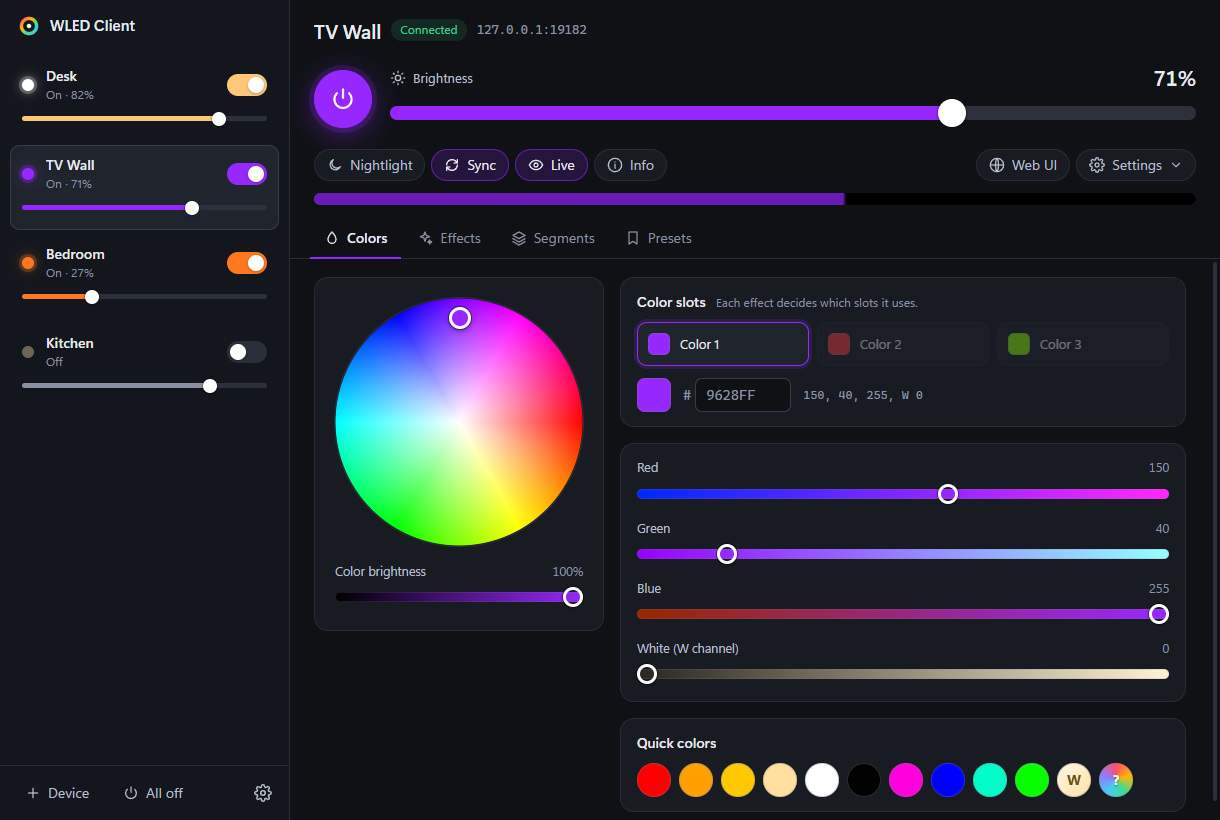
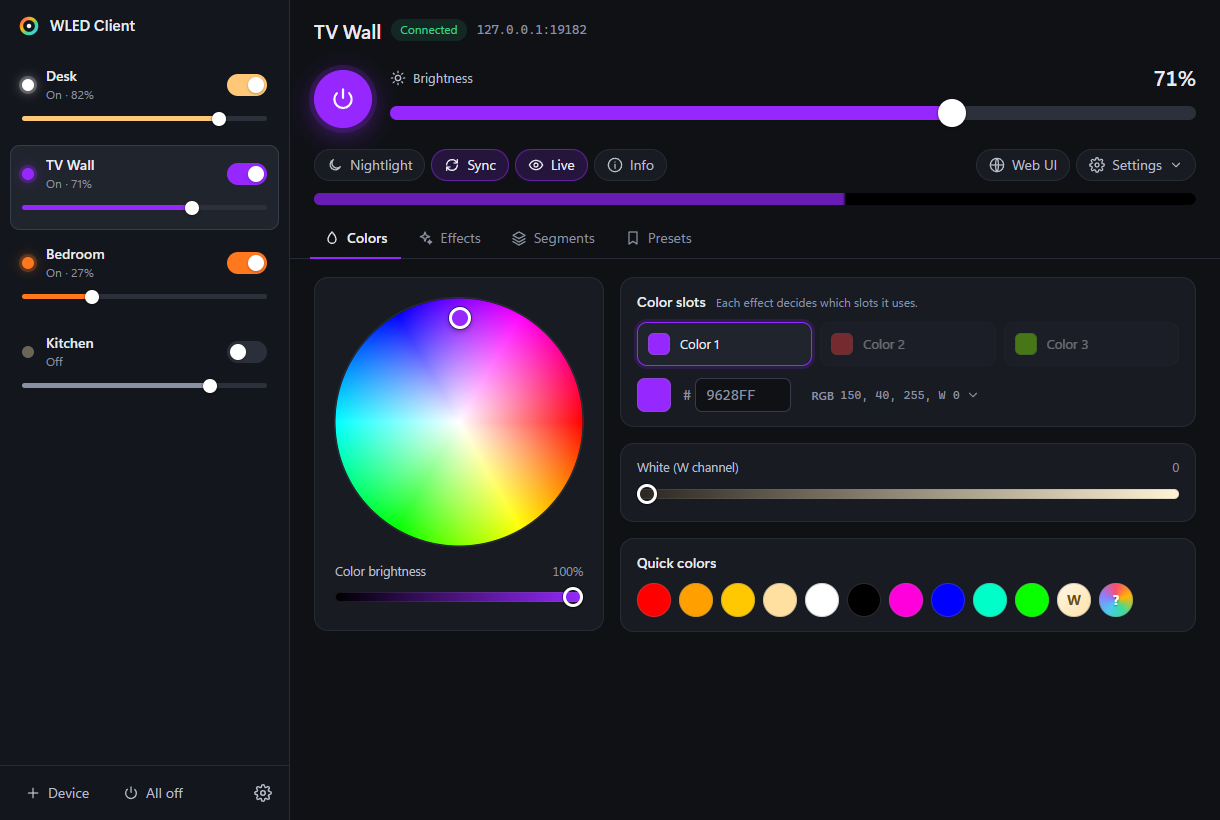
Colors tab: RGB sliders on demand
The red, green and blue sliders are folded away by default; the RGB
readout next to the hex field opens them and the choice is remembered.
White channel and color temperature stay visible where the device has
them, and the panel disappears when there is nothing left to show.

diff --git a/src/renderer/components/tabs/ColorsTab.tsx b/src/renderer/components/tabs/ColorsTab.tsx
@@ -1,7 +1,7 @@
 import { useEffect, useState } from 'react';
 import { key, t } from '../../../shared/i18n';
 import type { Color, DeviceSnapshot, DeviceStatic, WledState } from '../../../shared/types';
-import { send } from '../../lib/store';
+import { readLocal, send, writeLocal } from '../../lib/store';
 import {
   colPatch,
   displayColor,
@@ -16,6 +16,7 @@ import {
   viewSeg,
 } from '../../lib/wled';
 import { ColorWheel } from '../ColorWheel';
+import { Icon } from '../Icon';
 import { Slider } from '../controls';
 
 const QUICK: Array<{ c: Color; label: string }> = [
@@ -48,6 +49,10 @@ export function ColorsTab({ device, state, st }: { device: DeviceSnapshot; state
 
   const [hex, setHex] = useState(toHex(rgb));
   useEffect(() => setHex(toHex(rgb)), [rgb[0], rgb[1], rgb[2]]);
+
+  // Die RGB-Regler braucht kaum jemand ständig: zugeklappt, bis man sie holt, und so gemerkt
+  const [rgbOpen, setRgbOpen] = useState(() => readLocal<boolean>('wled.rgbOpen', false));
+  useEffect(() => writeLocal('wled.rgbOpen', rgbOpen), [rgbOpen]);
 
   const sendColor = (c: Color) =>
     send(device.id, segPatch(state, { col: colPatch(activeSlot, c) }), `col${activeSlot}`);
@@ -129,51 +134,63 @@ export function ColorsTab({ device, state, st }: { device: DeviceSnapshot; state
                 }}
               />
             </label>
-            <span className="muted small mono">
-              {rgb.join(', ')}
-              {rgbw ? `, W ${w}` : ''}
-            </span>
+            <button
+              className="rgb-toggle"
+              aria-expanded={rgbOpen}
+              title={rgbOpen ? t('RGB-Regler ausblenden') : t('RGB-Regler einblenden')}
+              onClick={() => setRgbOpen((o) => !o)}
+            >
+              <span className="rgb-toggle-label">RGB</span>
+              <span className="mono">
+                {rgb.join(', ')}
+                {rgbw ? `, W ${w}` : ''}
+              </span>
+              <Icon name="chevron" size={14} style={{ transform: rgbOpen ? 'rotate(180deg)' : undefined }} />
+            </button>
           </div>
         </section>
 
-        <section className="panel">
-          {[key('Rot'), key('Grün'), key('Blau')].map((label, i) => (
-            <div className="field" key={label}>
-              <span>
-                {t(label)} <span className="val">{rgb[i]}</span>
-              </span>
-              <Slider variant="gradient" track={channelTrack(i)} value={rgb[i]} label={t(label)} onChange={(nv) => setChannel(i, nv)} />
-            </div>
-          ))}
-          {rgbw && (
-            <div className="field">
-              <span>
-                {t('Weiß (W-Kanal)')} <span className="val">{w}</span>
-              </span>
-              <Slider
-                variant="gradient"
-                track="linear-gradient(90deg, #2a2620, #fff3d6)"
-                value={w}
-                label={t('Weißkanal')}
-                onChange={(nv) => sendColor([...rgb, nv])}
-              />
-            </div>
-          )}
-          {caps.cct && (
-            <div className="field">
-              <span>
-                {t('Farbtemperatur')} <span className="val">{seg.cct}</span>
-              </span>
-              <Slider
-                variant="gradient"
-                track="linear-gradient(90deg, #ff9d3c, #fff1dc, #cfe0ff)"
-                value={seg.cct}
-                label={t('Farbtemperatur')}
-                onChange={(nv) => send(device.id, segPatch(state, { cct: nv }), 'cct')}
-              />
-            </div>
-          )}
-        </section>
+        {(rgbOpen || rgbw || caps.cct) && (
+          <section className="panel">
+            {rgbOpen &&
+              [key('Rot'), key('Grün'), key('Blau')].map((label, i) => (
+                <div className="field" key={label}>
+                  <span>
+                    {t(label)} <span className="val">{rgb[i]}</span>
+                  </span>
+                  <Slider variant="gradient" track={channelTrack(i)} value={rgb[i]} label={t(label)} onChange={(nv) => setChannel(i, nv)} />
+                </div>
+              ))}
+            {rgbw && (
+              <div className="field">
+                <span>
+                  {t('Weiß (W-Kanal)')} <span className="val">{w}</span>
+                </span>
+                <Slider
+                  variant="gradient"
+                  track="linear-gradient(90deg, #2a2620, #fff3d6)"
+                  value={w}
+                  label={t('Weißkanal')}
+                  onChange={(nv) => sendColor([...rgb, nv])}
+                />
+              </div>
+            )}
+            {caps.cct && (
+              <div className="field">
+                <span>
+                  {t('Farbtemperatur')} <span className="val">{seg.cct}</span>
+                </span>
+                <Slider
+                  variant="gradient"
+                  track="linear-gradient(90deg, #ff9d3c, #fff1dc, #cfe0ff)"
+                  value={seg.cct}
+                  label={t('Farbtemperatur')}
+                  onChange={(nv) => send(device.id, segPatch(state, { cct: nv }), 'cct')}
+                />
+              </div>
+            )}
+          </section>
+        )}
 
         <section className="panel">
           <div className="panel-head">

diff --git a/src/renderer/styles.css b/src/renderer/styles.css
@@ -1315,6 +1315,28 @@ input:disabled {
   text-transform: uppercase;
 }
 
+.rgb-toggle {
+  display: inline-flex;
+  align-items: center;
+  gap: 6px;
+  padding: 4px 8px;
+  border: 0;
+  border-radius: var(--radius-sm);
+  background: transparent;
+  color: var(--muted);
+  font-size: 12px;
+  cursor: pointer;
+}
+
+.rgb-toggle:hover {
+  background: var(--panel-2);
+  color: var(--text);
+}
+
+.rgb-toggle-label {
+  font-weight: 600;
+}
+
 .quick {
   display: flex;
   flex-wrap: wrap;

diff --git a/src/shared/i18n-en.ts b/src/shared/i18n-en.ts
@@ -133,6 +133,8 @@ export const EN: Record<string, string> = {
   'Farbe 2': 'Color 2',
   'Farbe 3': 'Color 3',
   'Hex-Farbwert': 'Hex color',
+  'RGB-Regler einblenden': 'Show RGB sliders',
+  'RGB-Regler ausblenden': 'Hide RGB sliders',
   'Rot': 'Red',
   'Grün': 'Green',
   'Blau': 'Blue',
